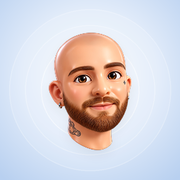
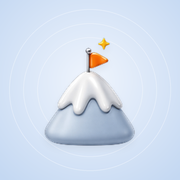
Icona di base neutra (la vetta); Luca ha la sua icona personale
Claude-Session: https://claude.ai/code/session_016Jh1zeRt3qLxqKFx84YozN

Changed region(s): [[0.2222, 0.1667, 0.75, 0.8611]]

diff --git a/index.html b/index.html
@@ -523,7 +523,7 @@ const IMG = {shoe: 'g_shoe', kettle: 'g_kettle', dumbbell: 'g_dumbbell', heart: 
 const FACES = ['me','f1','f2','f3','f4','f5','f6','f7','f8','f9','f10','f11','f12'];
 let avatar = 'me';
 try { const a = localStorage.getItem('scheda100k-avatar2'); if (FACES.includes(a)) avatar = a; } catch (e) {}
-const AV = '20261124w';
+const AV = '20261124x';
 let avatarImg = null; try { avatarImg = localStorage.getItem('scheda100k-avimg'); } catch (e) {}
 const ico = (name, cls = '') => name === 'avatar' && !avatarImg && !isOwner ? `<img class="${cls}" src="em/anon.png?v=${AV}" alt="" draggable="false">` : name === 'avatar' && avatarImg ? `<img class="${cls}" src="${avatarImg}" alt="" draggable="false">` : `<img class="${cls}" src="em/${name === 'avatar' ? avatar : (/^(g_|m_|f_)/.test(name) ? name : (IMG[name] || 'sparkles'))}.png?v=${AV}" alt="" draggable="false">`;
 
